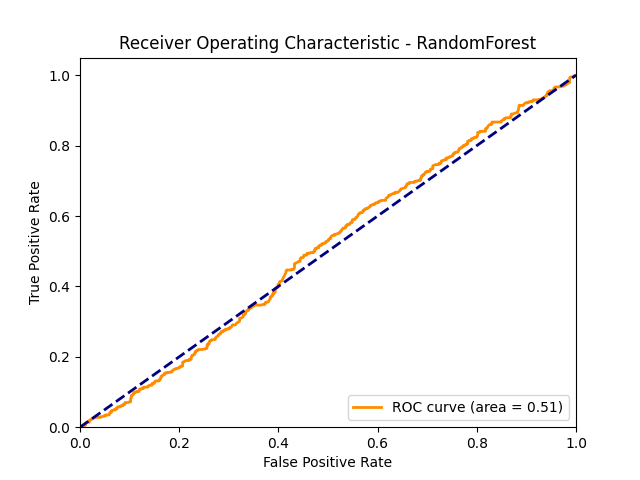
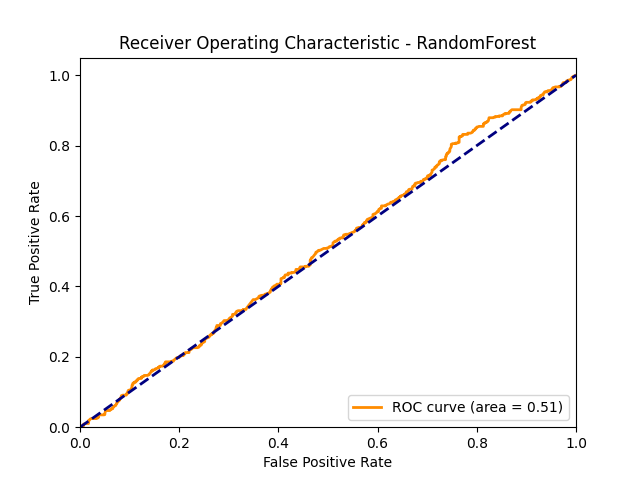
Modifiche minori a feature selection.

diff --git a/python/feature_selection.py b/python/feature_selection.py
@@ -73,7 +73,7 @@ X.fillna(-999, inplace=True)
 rf = RandomForestClassifier(n_jobs=-1, class_weight='balanced', max_depth=5, random_state=42)
 
 # Imposta il percentile individuato dal plateau nel grafico
-selected_percentile = 85
+selected_percentile = 90
 
 # Feature selection con BorutaPy usando il percentile selezionato
 print(f"Percentile: {selected_percentile}")
